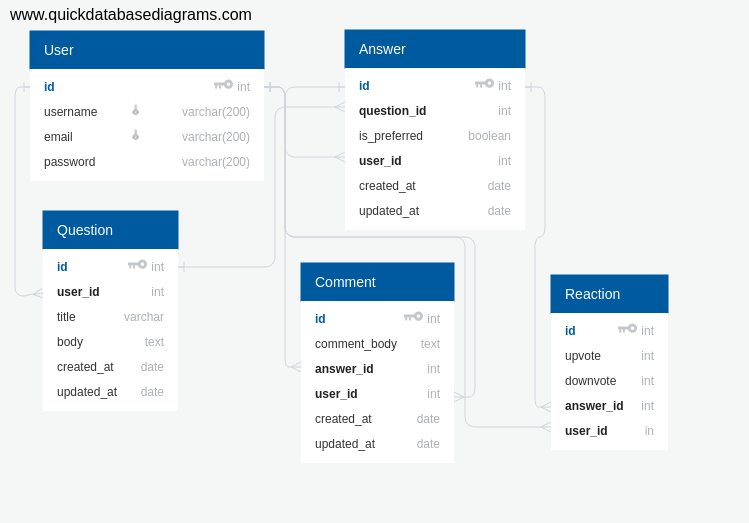
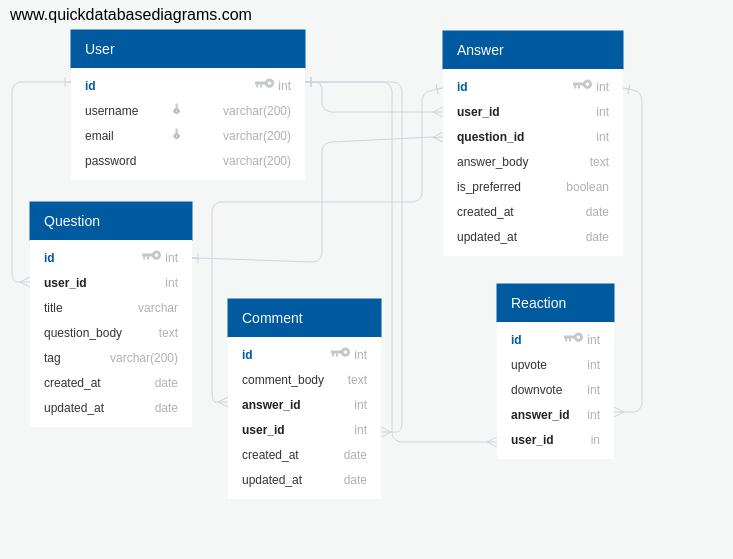
bg(LFA feedback): implements server-side feedback
- proper email validation

- proper status code attached to it each response

- fetch question with corressponding answers

- validate all IDs

[Finishes #160047449]

diff --git a/server/controllers/AnswerController.js b/server/controllers/AnswerController.js
@@ -12,7 +12,6 @@ export default class AnswerController {
    * @description This method handles post answer
    * @param {object} request request object
    * @param {object} response response object
-   *
    * @returns {Object} Object
   */
   static async postAnswer(request, response) {
@@ -20,43 +19,44 @@ export default class AnswerController {
     const { questionId } = request.params;
     const { answerBody } = request.body;
     const checkQuestion = await db.query(checkQuestionId(questionId));
-    if (checkQuestion.rowCount > 0) {
-      console.log(postAnswer(answerBody, userId, questionId));
-      const result = await db.query(postAnswer(answerBody, userId, questionId)).catch(error => error.message);
-      console.log(result);
-      if (result.rowCount > 0) {
-        return response.status(201).json({
-          status: 'success',
-          message: 'Answer has been posted successfully',
-          answer: result.rows,
+    try {
+      if (checkQuestion.rowCount > 0) {
+        const result = await db.query(postAnswer(answerBody, userId, questionId));
+        if (result.rowCount > 0) {
+          return response.status(201).json({
+            status: 'success',
+            message: 'Answer has been posted successfully',
+            answer: result.rows,
+          });
+        }
+        return response.status(500).json({
+          status: 'fail',
+          message: 'Internal Server Error',
         });
       }
-      return response.status(500).json({
+      return response.status(404).json({
         status: 'fail',
-        message: 'Internal Server Error',
+        message: 'question id not found'
+      });
+    } catch (error) {
+      return response.status(500).json({
+        status: 'error',
+        message: error.message,
       });
     }
-    return response.status(404).json({
-      status: 'fail',
-      message: 'question id not found'
-    });
   }
 
-
   /**
-         * @method editAnswer
-         * @static
-         * @description This returns updates answer
-         * @param {object} request request object
-         * @param {object} response response object
-         *
-         * @returns {Object} Object
-        */
+ * @method editAnswer
+ * @static
+ * @description This returns updates answer
+ * @param {object} request request object
+ * @param {object} response response object
+ * @returns {Object} Object
+*/
   static async editAnswer(request, response) {
-    console.log(request.params);
     const userId = request.userId.id;
     const { questionId } = request.params;
-    console.log(questionId);
     const { answerId } = request.params;
 
     const { answerBody } = request.body;
@@ -78,23 +78,23 @@ export default class AnswerController {
             message: 'Internal Server Error',
           });
         }
-        if (result.rows[0].answer_creator === userId) {
-          const updateResult = await db.query(updateAnswer(answerBody, answerId, userId));
-          if (updateResult.rowCount > 0) {
-            return response.status(200).json({
-              status: 'success',
-              message: 'Answer has been updated successfully',
-              answer: updateResult.rows,
-            });
-          }
-          return response.status(500).json({
+        if (result.rows[0].answer_creator !== userId) {
+          return response.status(401).json({
             status: 'fail',
-            message: 'Internal Server Error',
+            message: 'user cannot perform operation'
           });
         }
-        return response.status(404).json({
+        const updateResult = await db.query(updateAnswer(answerBody, answerId, userId));
+        if (updateResult.rowCount > 0) {
+          return response.status(200).json({
+            status: 'success',
+            message: 'Answer has been updated successfully',
+            answer: updateResult.rows,
+          });
+        }
+        return response.status(500).json({
           status: 'fail',
-          message: 'user cannot perform operation on answer',
+          message: 'Internal Server Error',
         });
       }
       return response.status(500).json({

diff --git a/server/middleware/ValidateAuth.js b/server/middleware/ValidateAuth.js
@@ -1,0 +1,79 @@
+/**
+ * @class ValidateAuth
+ */
+export default class ValidateAuth {
+  /**
+ * @method validateUserInputs
+ * @static
+ * @description This sanitizes auth data
+ * @param {object} request request object
+ * @param {object} response response object
+ * @returns {Object} Object
+ */
+  static validateUserInputs(request, response, next) {
+    const {
+      username, email, password,
+    } = request.body;
+    const nameFormat = /[ !@#$%^&*()_+\-=[\]{};':"\\|,.<>/?]/;
+    const emailPattern = /^(([^<>()\[\]\\.,;:\s@"]+(\.[^<>()\[\]\\.,;:\s@"]+)*)|(".+"))@((\[[0-9]{1,3}\.[0-9]{1,3}\.[0-9]{1,3}\.[0-9]{1,3}])|(([a-zA-Z\-0-9]+\.)+[a-zA-Z]{2,}))$/;
+
+    if (username === undefined || email === undefined || password === undefined) {
+      return response.status(400).json({
+        status: 'fail',
+        message: 'please define all fields'
+      });
+    }
+    if (username.trim() === '' || email.trim() === '' || password.trim() === '') {
+      return response.status(400).json({
+        status: 'fail',
+        message: 'please fill all fields'
+      });
+    }
+    if (nameFormat.test(username)) {
+      return response.status(400).json({
+        status: 'fail',
+        message: 'username cannot contain special character',
+      });
+    }
+
+    if (!emailPattern.test(email.trim())) {
+      return response.status(400).json({
+        status: 'fail',
+        message: 'email format is invalid',
+      });
+    }
+    if (password.length < 5) {
+      return response.status(400).json({
+        status: 'fail',
+        message: 'password must be greater than 5',
+      });
+    }
+    return next();
+  }
+
+  /**
+ * @method signInValidation
+ * @static
+ * @description This validates user login
+ * @param {object} request request object
+ * @param {object} response response object
+ *
+ * @returns {Object} Object
+ */
+  static signInValidation(request, response, next) {
+    const { username, password } = request.body;
+    if (username === undefined || password === undefined) {
+      return response.status(400).json({
+        status: 'fail',
+        message: 'please define all fields'
+      });
+    }
+    if (username.trim() === '' || password.trim() === '') {
+      return response.status(400).json({
+        status: 'fail',
+        message: 'please fill all fields'
+      });
+    }
+    return next();
+  }
+}

diff --git a/server/controllers/QuestionController.js b/server/controllers/QuestionController.js
@@ -10,13 +10,12 @@ export default class QuestionController {
  * @description This returns all question
  * @param {object} request request object
  * @param {object} response response object
- *
  * @returns {Object} Object
  */
   static async getAllQuestion(request, response) {
     try {
       const fetchQuestion = await db.query(fetchAllQuestions());
-      if (fetchQuestion) {
+      if (fetchQuestion.rowCount > 0) {
         return response.status(200).json({
           status: 'success',
           message: 'all questions',
@@ -41,7 +40,6 @@ export default class QuestionController {
  * @description This returns a single question
  * @param {object} request request object
  * @param {object} response response object
- *
  * @returns {Object} Object
  */
   static async getQuestion(request, response) {
@@ -73,7 +71,6 @@ export default class QuestionController {
  * @description This handles user question creation
  * @param {object} request request object
  * @param {object} response response object
- *
  * @returns {Object} Object
  */
   static async postQuestion(request, response) {
@@ -112,8 +109,8 @@ export default class QuestionController {
         questionObj,
       });
     } catch (error) {
-      return response.status(500).json({
-        status: 'fail',
+      return response.status(401).json({
+        status: 'Unauthorized',
         message: error.message,
       });
     }
@@ -125,7 +122,6 @@ export default class QuestionController {
  * @description This handles user question creation
  * @param {object} request request object
  * @param {object} response response object
- *
  * @returns {Object} Object
  */
   static async deleteQuestion(request, response) {

diff --git a/server/controllers/AuthController.js b/server/controllers/AuthController.js
@@ -4,18 +4,17 @@ import PasswordUtility from '../helpers/passwordUtility';
 import jwtSign from '../helpers/jwt';
 
 /**
-   * @class AuthController
-   */
+* @class AuthController
+*/
 export default class AuthController {
   /**
-       * @method signUp
-       * @static
-       * @description This handles user registration
-       * @param {object} request request object
-       * @param {object} response response object
-       *
-       * @returns {Object} Object
-       */
+ * @method signUp
+ * @static
+ * @description This handles user registration
+ * @param {object} request request object
+ * @param {object} response response object
+ * @returns {Object} Object
+ */
   static async signUp(request, response) {
     const { username, email, password } = request.body;
     const userExists = await db.query(checkUser(username, email));

diff --git a/server/controllers/CommentControllers.js b/server/controllers/CommentControllers.js
@@ -4,7 +4,6 @@ import db from '../models/connection';
 /**
 * @class AnswerController
 */
-
 export default class CommentController {
   /**
    * @method postCommentOnAnswer
@@ -18,6 +17,13 @@ export default class CommentController {
     const { commentBody } = request.body;
     const userId = request.userId.id;
     const { answerId } = request.params;
+    const parsedId = parseInt(answerId, 10);
+    if (Number.isNaN(parsedId) === true) {
+      return response.status(400).json({
+        status: 'fail',
+        message: 'answer id must be a number',
+      });
+    }
     const validateAnswer = await db.query((checkAnswer(answerId)));
     if (validateAnswer.rowCount > 0) {
       const post = await db.query(postComment(commentBody, userId, answerId));

diff --git a/server/routes/authRoute.js b/server/routes/authRoute.js
@@ -1,11 +1,11 @@
 import { Router } from 'express';
 import AuthController from '../controllers/AuthController';
-import Validate from '../middleware/validateAuth';
+import ValidateAuth from '../middleware/ValidateAuth';
 
 const authRoute = Router();
 
-authRoute.post('/signup', Validate.validateUserInputs, AuthController.signUp);
+authRoute.post('/signup', ValidateAuth.validateUserInputs, AuthController.signUp);
 
-authRoute.post('/login', AuthController.signIn);
+authRoute.post('/login', ValidateAuth.signInValidation, AuthController.signIn);
 
 export default authRoute;

diff --git a/server/middleware/validateData.js b/server/middleware/validateData.js
@@ -51,4 +51,17 @@ export default class ValidateData {
     }
     return next();
   }
+
+  static validateComment(request, response, next) {
+    const { commentBody } = request.body;
+    if (
+      !commentBody || commentBody === undefined || commentBody.toString().trim() === '' || typeof commentBody !== 'string'
+    ) {
+      return response.status(400).send({
+        status: 'fail',
+        message: 'you cannot submit empty field',
+      });
+    }
+    return next();
+  }
 }

diff --git a/server/routes/questionRoute.js b/server/routes/questionRoute.js
@@ -31,6 +31,6 @@ questionRoute.post('/:questionId/answer', verifyToken, ValidateData.validateAnsw
 
 questionRoute.put('/:questionId/answer/:answerId', verifyToken, AnswerController.editAnswer);
 
-questionRoute.post('/:questionId/answer/:answerId/comment', verifyToken, CommentController.postCommentOnAnswer);
+questionRoute.post('/:questionId/answer/:answerId/comment', verifyToken, ValidateData.validateComment, CommentController.postCommentOnAnswer);
 
 export default questionRoute;

diff --git a/server/migration/create.js b/server/migration/create.js
@@ -54,7 +54,7 @@ CREATE TABLE IF NOT EXISTS comments(
 db.query(createUserTable).then((response) => {
   if (response) {
     // eslint-disable-next-line
-    console.log('User table created successfully');
+    console.log('Users table created successfully');
   } else {
     // eslint-disable-next-line
     console.log('Error while creating users table');

diff --git a/README.md b/README.md
@@ -55,9 +55,10 @@ kommunity is a platform where people can ask questions and provide answers. A li
 | DELETE | _/api/v1/questions/:id_ | Delete a question
 | PUT | _/api/v1/questions/:id/answer/:id_ | Mark an answer as accepted or update an answer.
 
+## Database Relationship
+![DB](./screenshots/db.png)
 
 ## Getting Started
-
 Instructions to get the project running successfully on your terminal
 
 ### Prerequisites
